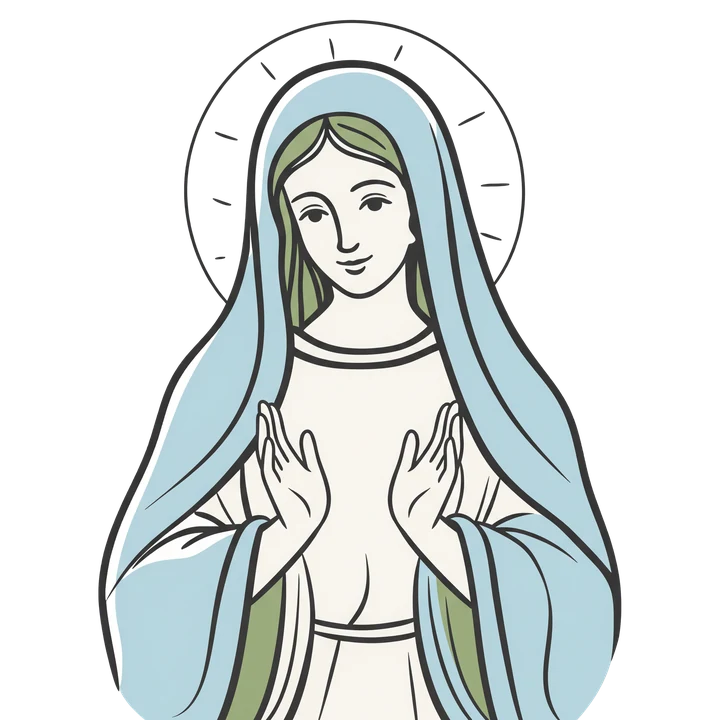
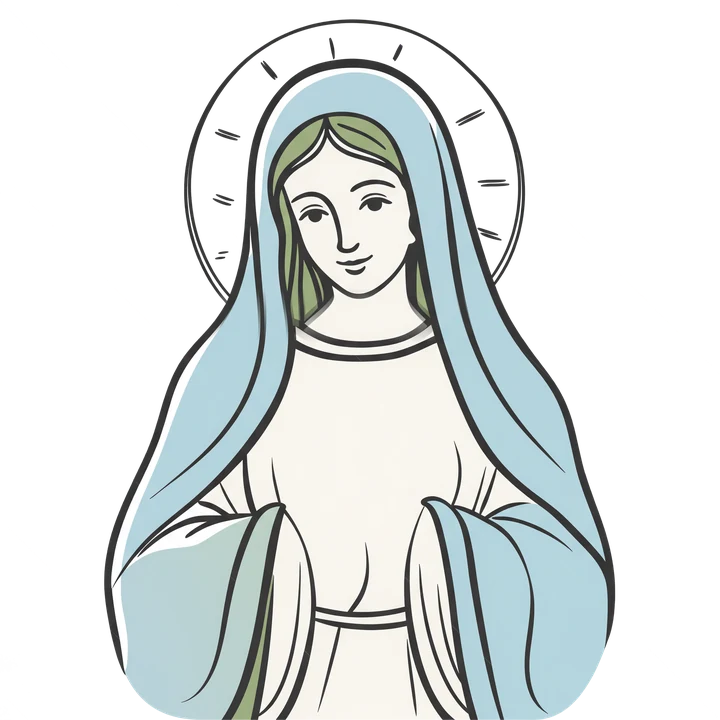
Afinador: as mesmas mãos postas se abrem ao afinar (duas metades); cabeça sorrindo sobre o mesmo corpo
Claude-Session: https://claude.ai/code/session_01XsCZQaSmJRsvCUYf3Lt5tw

diff --git a/app/css/app.css b/app/css/app.css
@@ -607,15 +607,18 @@ body.modo-tocar::after { animation-play-state: paused; }
 .maria .m-figura { position: absolute; left: 13%; top: 5.625%; width: 74%; aspect-ratio: 1; z-index: 1; }
 .maria .m-img { position: absolute; inset: 0; width: 100%; height: 100%; user-select: none; pointer-events: none; transition: opacity .3s ease; -webkit-mask-image: linear-gradient(#000 86%, transparent 99%); mask-image: linear-gradient(#000 86%, transparent 99%); }
 .maria .m-afinada { opacity: 0; }
-.maria .m-maos { position: absolute; width: 18.4%; left: 40.8%; top: 53.3%; transform-origin: 50% 81.8%; transform: rotate(calc(var(--giro) * 1deg)); transition: transform .14s linear, opacity .3s ease; pointer-events: none; user-select: none; }
+.maria .m-maos { position: absolute; aspect-ratio: 982 / 1468; width: 18.4%; left: 40.8%; top: 53.3%; transform-origin: 50% 81.8%; transform: rotate(calc(var(--giro) * 1deg)); transition: transform .14s linear, opacity .3s ease; pointer-events: none; user-select: none; }
+.maria .m-mao { position: absolute; inset: 0; width: 100%; height: 100%; transition: transform .4s cubic-bezier(.3, 1.3, .5, 1); }
+.maria .m-mao-e { transform-origin: 27.4% 82%; } .maria .m-mao-d { transform-origin: 72.6% 82%; }
+.afinador[data-estado="perfeito"] .maria .m-mao-e, .afinador[data-estado="ok"] .maria .m-mao-e { transform: rotate(-30deg); }
+.afinador[data-estado="perfeito"] .maria .m-mao-d, .afinador[data-estado="ok"] .maria .m-mao-d { transform: rotate(30deg); }
 .maria .m-agulha { transform-origin: 300px 364px; transform: rotate(calc(var(--giro) * 1deg)); transition: transform .14s linear; }
 .maria .m-t-v { stroke: #4caf50; } .maria .m-t-a { stroke: #e9a23b; } .maria .m-t-r { stroke: #d9534f; }
 .maria .m-marca { fill: #e0a82a; transition: fill .3s; }
 .maria .m-bemol, .maria .m-sustenido { fill: #b4776a; font-family: Georgia, serif; }
 .maria .m-brilho { position: absolute; inset: 6% 4% 0; border-radius: 50%; background: radial-gradient(closest-side, rgba(76, 175, 80, .38), rgba(76, 175, 80, 0)); opacity: 0; transition: opacity .35s ease; }
 .afinador[data-estado="medindo"] .maria .m-maos { opacity: .75; }
-.afinador[data-estado="perfeito"] .maria .m-rezando, .afinador[data-estado="ok"] .maria .m-rezando,
-.afinador[data-estado="perfeito"] .maria .m-maos, .afinador[data-estado="ok"] .maria .m-maos { opacity: 0; }
+.afinador[data-estado="perfeito"] .maria .m-rezando, .afinador[data-estado="ok"] .maria .m-rezando { opacity: 0; }
 .afinador[data-estado="perfeito"] .maria .m-afinada, .afinador[data-estado="ok"] .maria .m-afinada,
 .afinador[data-estado="perfeito"] .maria .m-brilho, .afinador[data-estado="ok"] .maria .m-brilho { opacity: 1; }
 .afinador[data-estado="perfeito"] .maria .m-feixe, .afinador[data-estado="ok"] .maria .m-feixe { stroke: url(#m-grad-verde); filter: drop-shadow(0 0 4px #4caf50); }

diff --git a/app/sw.js b/app/sw.js
@@ -1,8 +1,8 @@
 // Service worker: guarda o app e o acervo para funcionar sem internet
-const VERSAO = 'cl-v105';
+const VERSAO = 'cl-v106';
 const ARQUIVOS = ['./', 'index.html', 'css/app.css', 'js/app.js', 'js/ui.js', 'js/dados.js', 'js/cifra.js', 'js/pdf.js',
   'js/missas.js', 'js/importar.js', 'js/ouvir.js', 'js/tocar.js', 'js/painel.js', 'js/exportar.js', 'js/pdf-missa.js', 'js/visualizar-pdf.js', 'js/ocr.js', 'js/ocr-cifra.js', 'js/partitura.js', 'js/partitura-imagem.js', 'js/conferir.js', 'js/musicxml.js', 'vendor/fflate.mjs', 'vendor/jspdf.umd.min.js', 'js/acordes-audio.js', 'js/afinador.js', 'js/afinador-nucleo.js', 'js/sumario.js', 'js/classificar.js', 'js/mscx.js', 'js/folheto.js', 'js/oracoes.js', 'js/instrumentos.js', 'js/apresentacao.js', 'js/capas.js', 'js/nuvem.js', 'js/firebase-config.js', 'vendor/firebase/firebase-app.js', 'vendor/firebase/firebase-auth.js', 'vendor/firebase/firebase-firestore.js', 'vendor/pptxgen.bundle.js', 'vendor/jsQR.js', 'manifest.webmanifest', 'icone.svg',
-  'js/afinador.js', 'js/afinador-nucleo.js', 'js/maria.js', 'assets/maria-rezando.webp', 'assets/maria-afinada.webp', 'assets/maria-maos.webp', 'icone-192.png', 'icone-512.png', 'data/musicas.json', 'data/pasta.json', 'data/repertorios.json', 'data/adicionadas.json', 'data/canal.json', 'data/salmodiai.json', 'data/versoes.json'];
+  'js/afinador.js', 'js/afinador-nucleo.js', 'js/maria.js', 'assets/maria-rezando.webp', 'assets/maria-afinada.webp', 'assets/maria-mao-esq.webp', 'assets/maria-mao-dir.webp', 'icone-192.png', 'icone-512.png', 'data/musicas.json', 'data/pasta.json', 'data/repertorios.json', 'data/adicionadas.json', 'data/canal.json', 'data/salmodiai.json', 'data/versoes.json'];
 
 self.addEventListener('install', e => {
   e.waitUntil(caches.open(VERSAO).then(c => Promise.all(ARQUIVOS.map(a => c.add(a).catch(() => {})))).then(() => self.skipWaiting()));

diff --git a/app/js/maria.js b/app/js/maria.js
@@ -1,7 +1,7 @@
 // Maria como medidor do afinador (ilustração: assets/maria-*.webp). As mãos postas são uma camada separada que gira como
 // ponteiro em torno dos pulsos e de suas pontas sai um feixe de luz, que gira junto, até um arco grande em volta dela
-// (♭ à esquerda, ♯ à direita). Fora do tom ela reza (olhos fechados); ao afinar (verde) a imagem troca por Maria sorrindo, de
-// olhos abertos e mãos abertas, e o arco acende. O ângulo vem da variável CSS --giro (graus), posta por afinador.js;
+// (♭ à esquerda, ♯ à direita). Fora do tom ela reza (olhos fechados); ao afinar (verde) ela abre os olhos e sorri, as MESMAS mãos se abrem
+// (duas metades que se afastam) e o arco acende. O ângulo vem da variável CSS --giro (graus), posta por afinador.js;
 // o estado vem de data-estado.
 const GRAU_POR_CENT = 0.9;                                  // ±50 cents = ±45°
 export const giroDeCents = c => Math.max(-50, Math.min(50, c)) * GRAU_POR_CENT;
@@ -31,6 +31,6 @@ export const MARIA_HTML = `<div class="maria-quadro">
     <div class="m-brilho"></div>
     <img class="m-img m-rezando" src="assets/maria-rezando.webp" alt="" draggable="false">
     <img class="m-img m-afinada" src="assets/maria-afinada.webp" alt="" draggable="false">
-    <img class="m-maos" src="assets/maria-maos.webp" alt="" draggable="false">
+    <div class="m-maos"><img class="m-mao m-mao-e" src="assets/maria-mao-esq.webp" alt="" draggable="false"><img class="m-mao m-mao-d" src="assets/maria-mao-dir.webp" alt="" draggable="false"></div>
   </div>
 </div>`;
